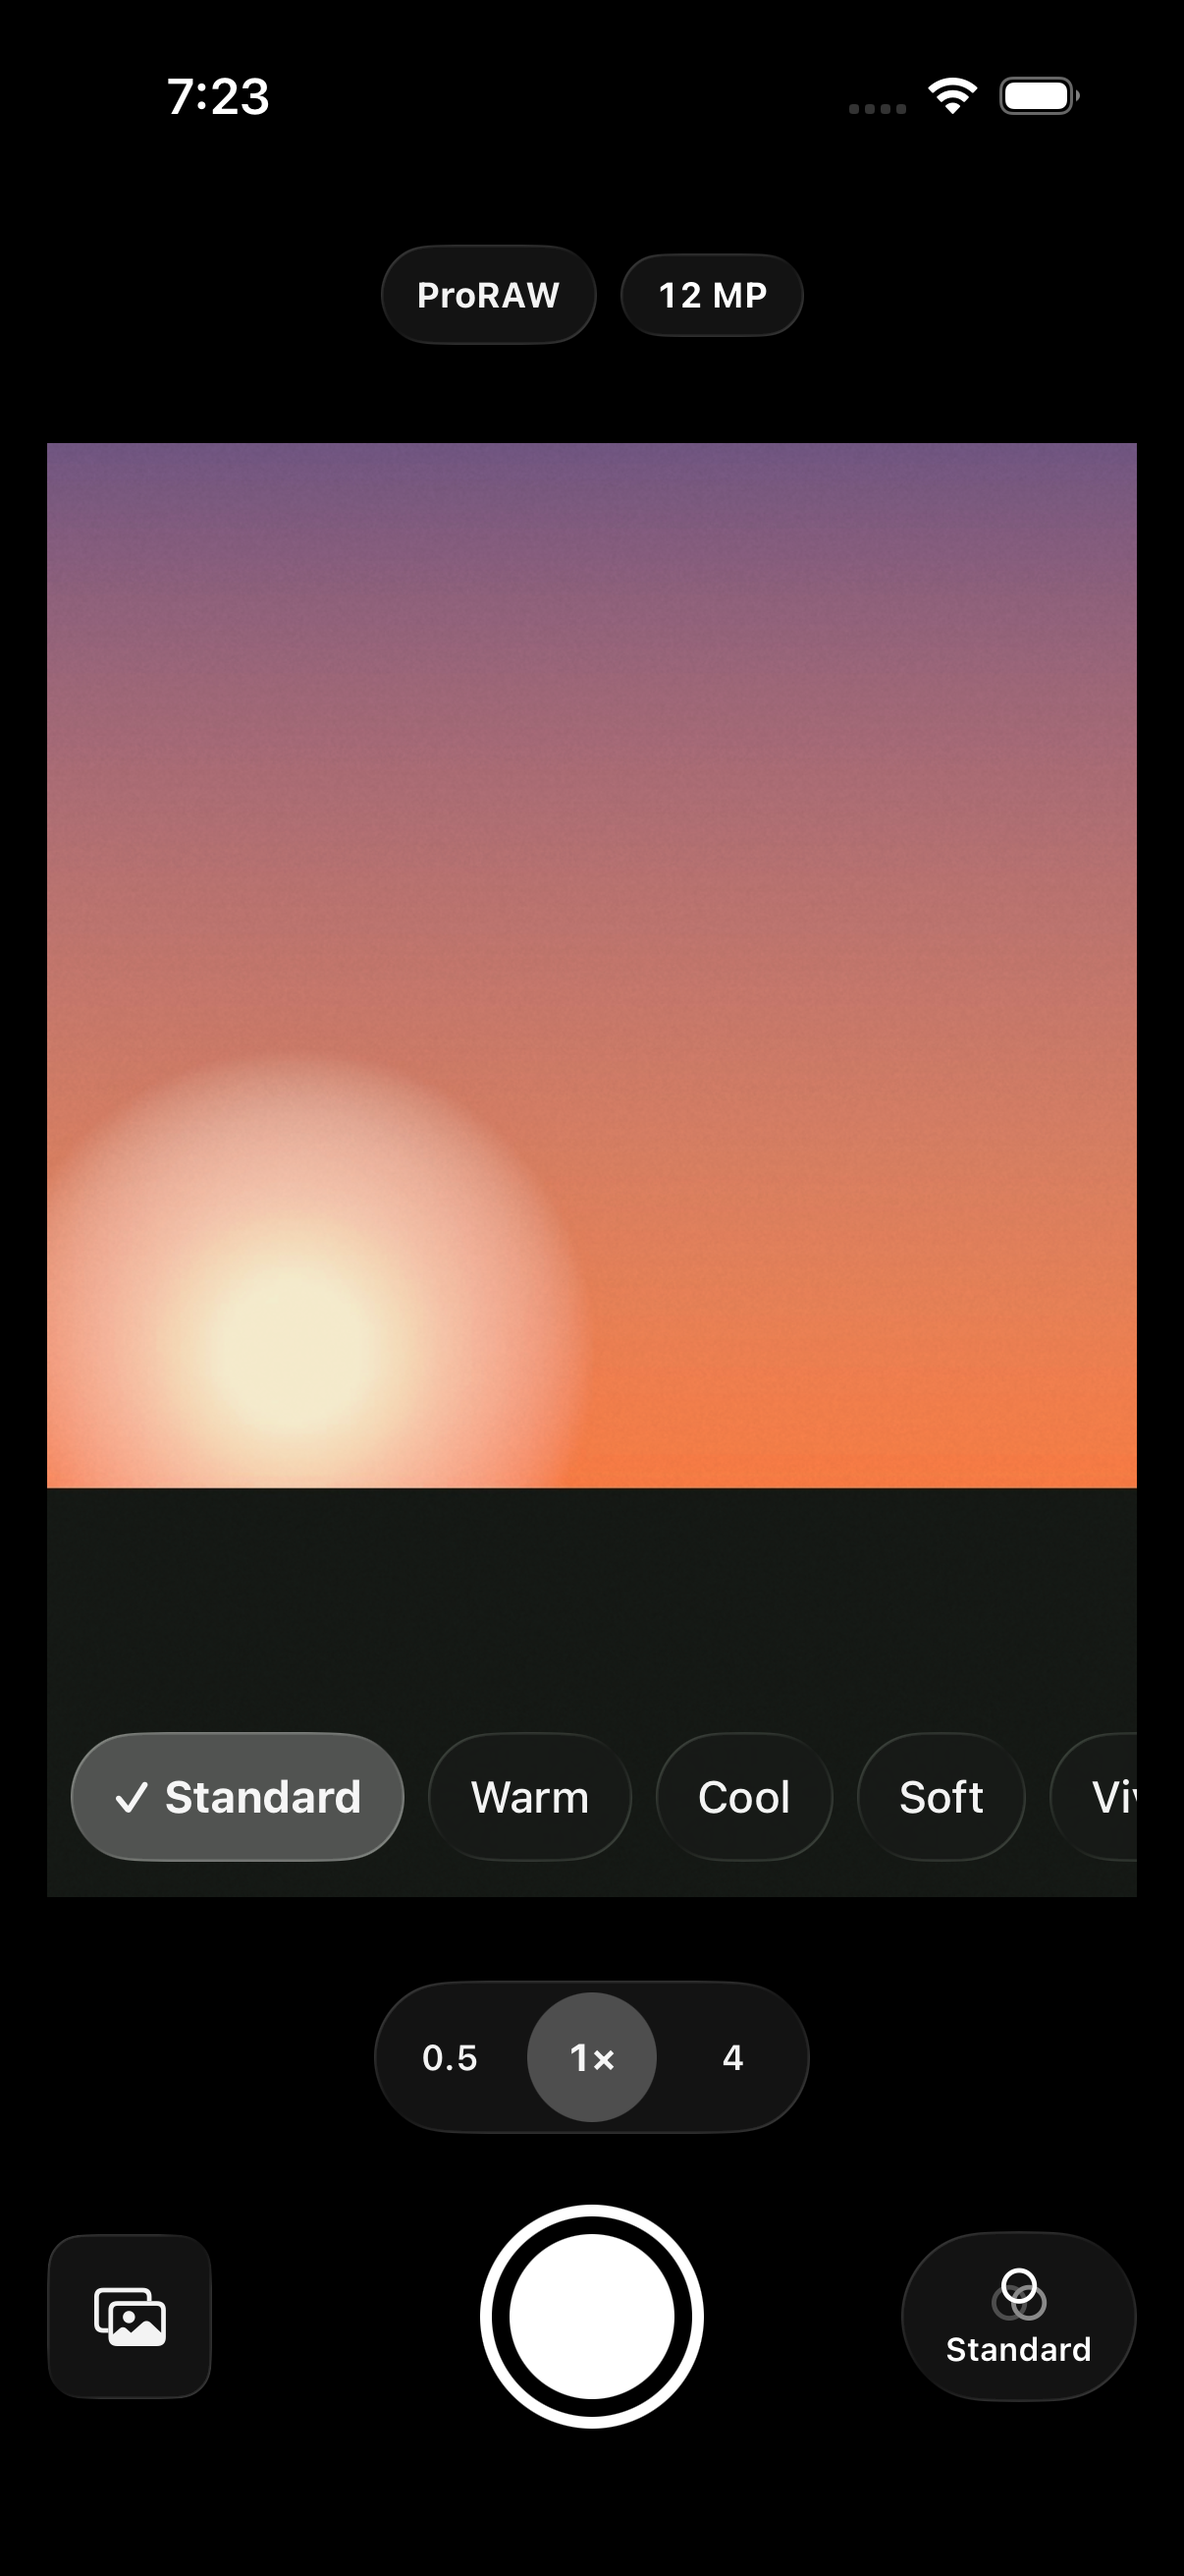
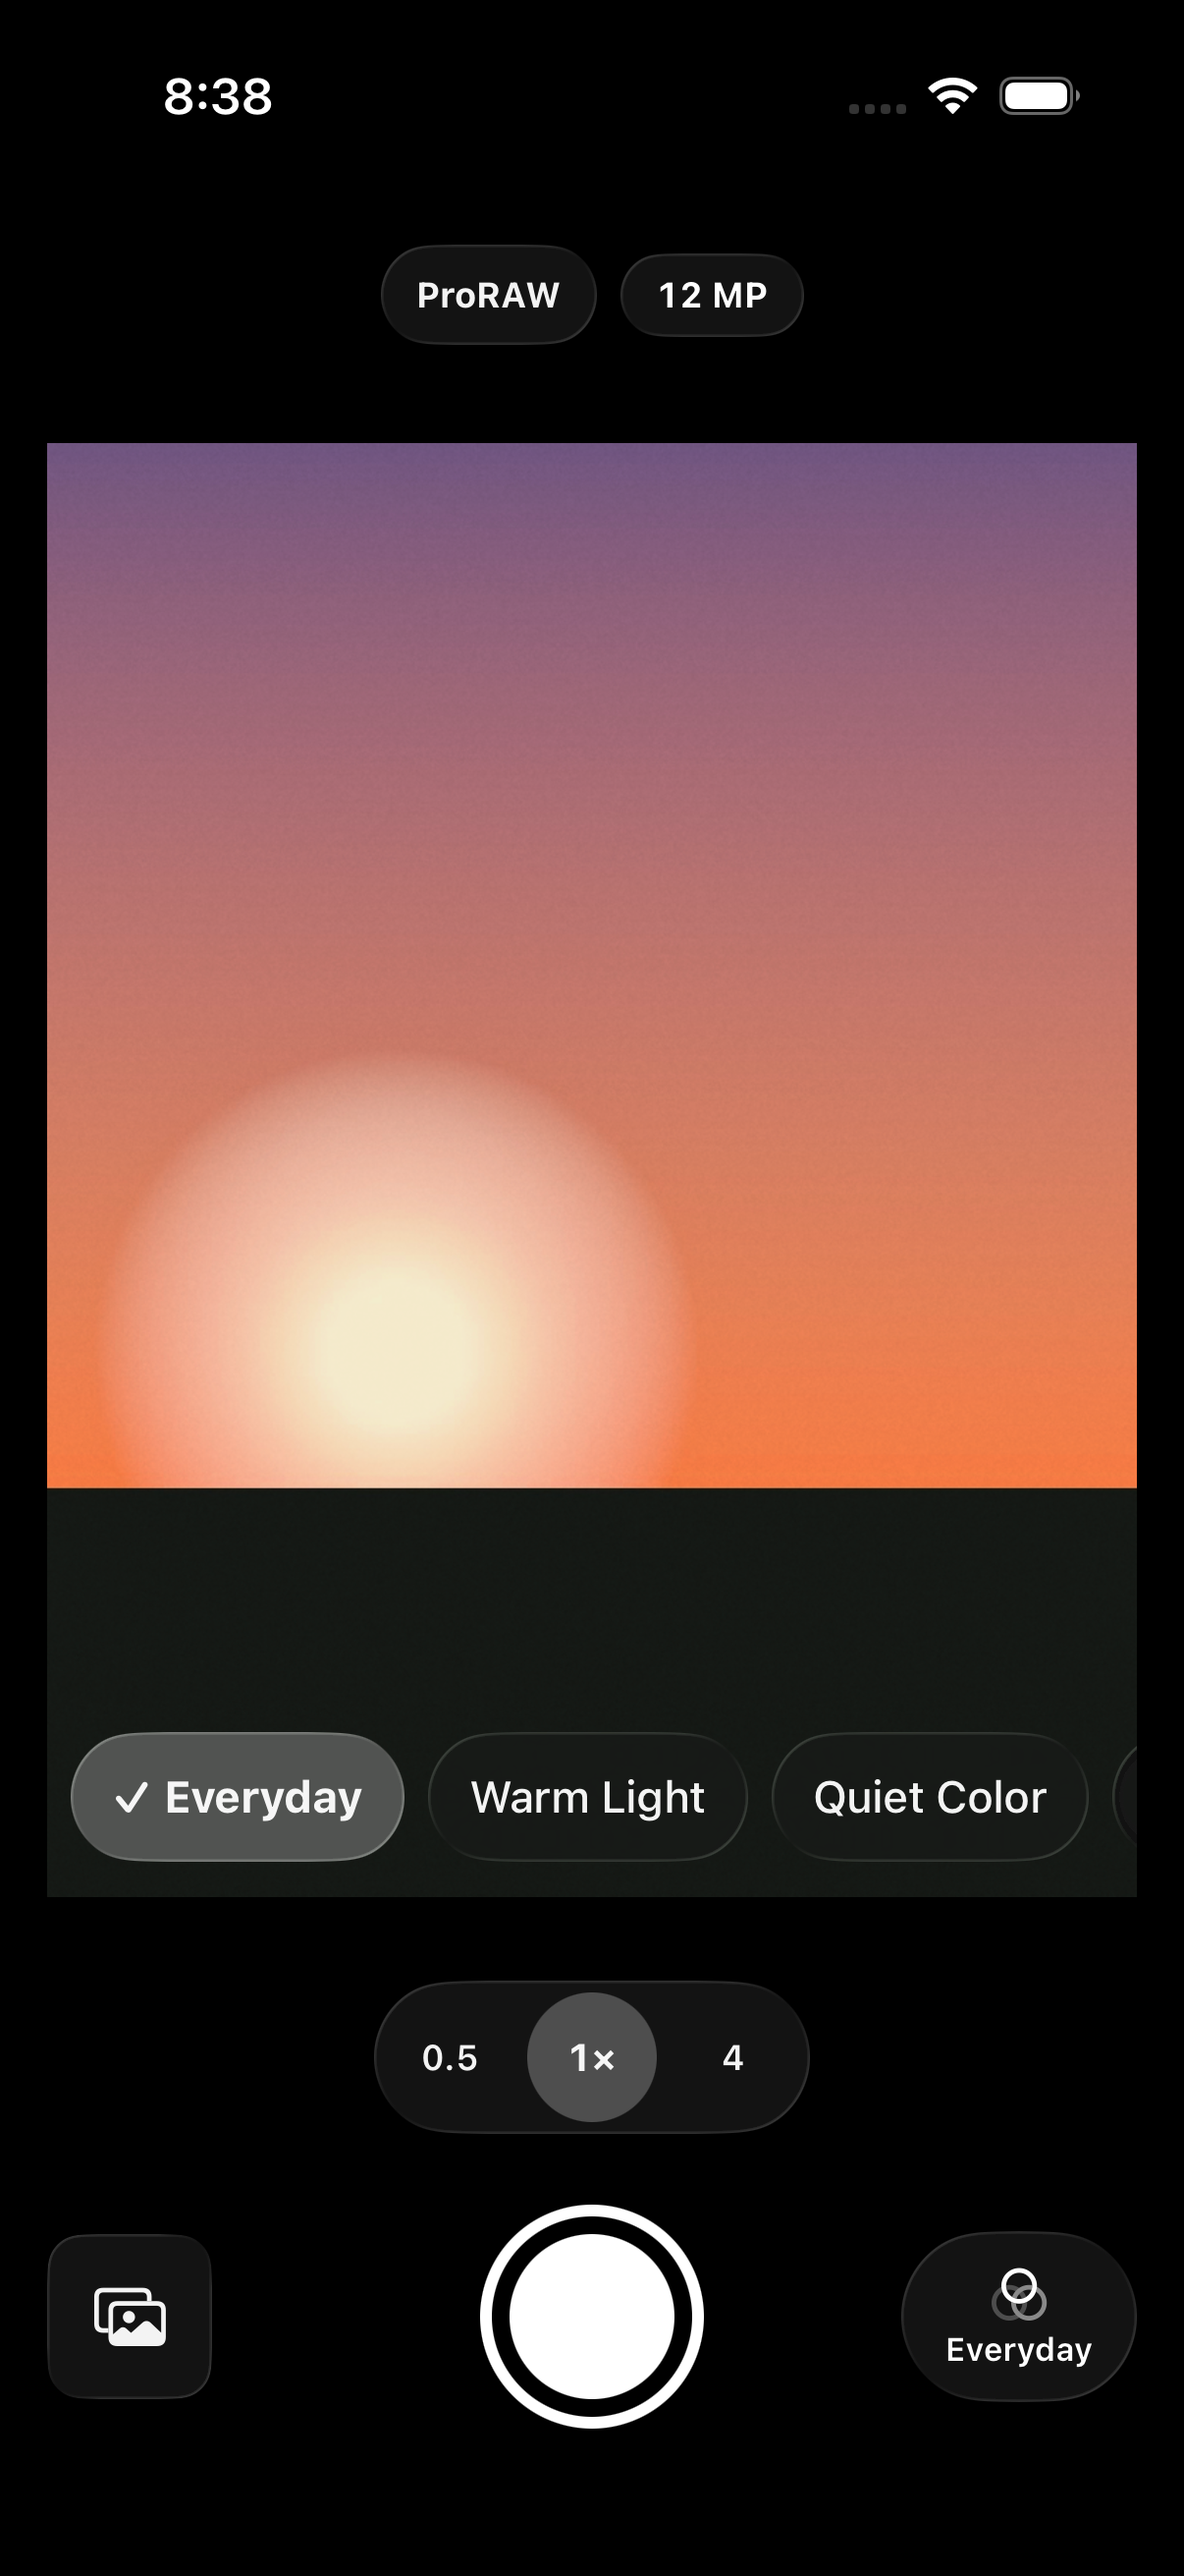
Refresh MOV-121 proof: curated looks, saved recipe in the strip

diff --git a/README.md b/README.md
@@ -1,3 +1,3 @@
 # MOV-121 proof: shoot with a recipe
 
-iOS Simulator captures from the top of the MOV-121 branch. The Simulator has no camera: the viewfinder shows the stand-in camera (bundled synthetic sample photos) rendered through the live film look. iPhone 17 Pro shots come from the UI walkthrough. iPhone Duo poses were set on a spare simulator with agent-device 0.21.31 `fold closed` / `fold open`; the tool could not read the hinge angle back, so each pose was confirmed by which panel was lit (outer 466x678 pt, inner 951x669 pt). Timing overlays are Simulator numbers, not device numbers. No device captures yet.
+iOS Simulator captures from the top of the MOV-121 branch. The Simulator has no camera: the viewfinder shows the stand-in camera (bundled synthetic sample photos) rendered through the live film look. iPhone 17 Pro shots come from the UI walkthrough; the saved-recipe shot was set up through the app's own UI (editor, Looks, Save Look). Recipes are the engine's curated looks (MOV-65). iPhone Duo poses were set on a spare simulator with agent-device 0.21.31 `fold closed` / `fold open`; the tool could not read the hinge angle back, so each pose was confirmed by which panel was lit (outer 466x678 pt, inner 951x669 pt). Timing overlays are Simulator numbers, not device numbers. No device captures yet.
